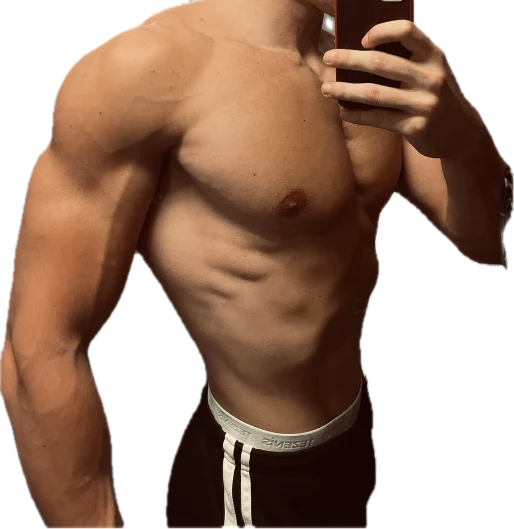
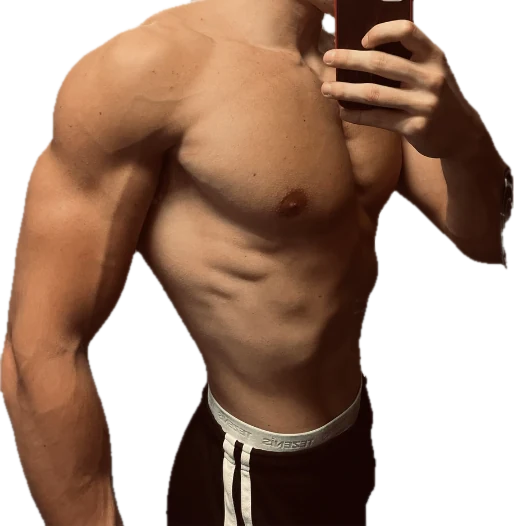
Clean white edge line and grey fringe from physique photo
Claude-Session: https://claude.ai/code/session_01HAGokucwoDabVrFrG2DE7E

diff --git a/index.html b/index.html
@@ -389,7 +389,7 @@
           <img class="portrait-main" src="assets/gabriele-desk.webp" width="780" height="1040" loading="lazy"
                alt="Gabriele, founder of DevBodySystem, coding at his desk with a laptop and a curved monitor">
           <div class="portrait-inset">
-            <img src="assets/gabriele-physique.webp" width="514" height="529" loading="lazy"
+            <img src="assets/gabriele-physique.webp" width="514" height="526" loading="lazy"
                  alt="Gabriele's lean, muscular physique in a mirror selfie">
           </div>
           <figcaption>Full-time software engineer. 8+ years of training alongside the desk job.</figcaption>
